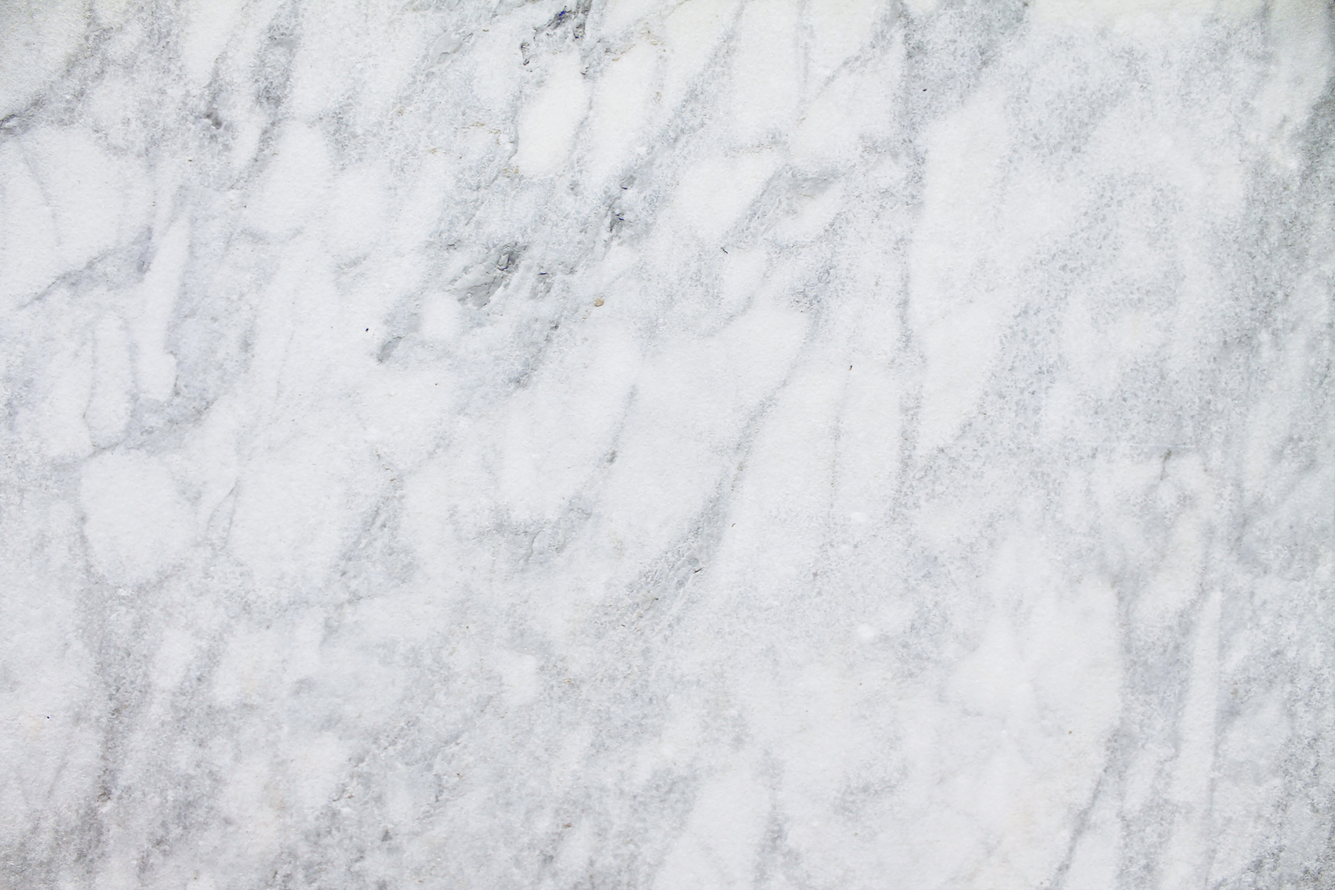
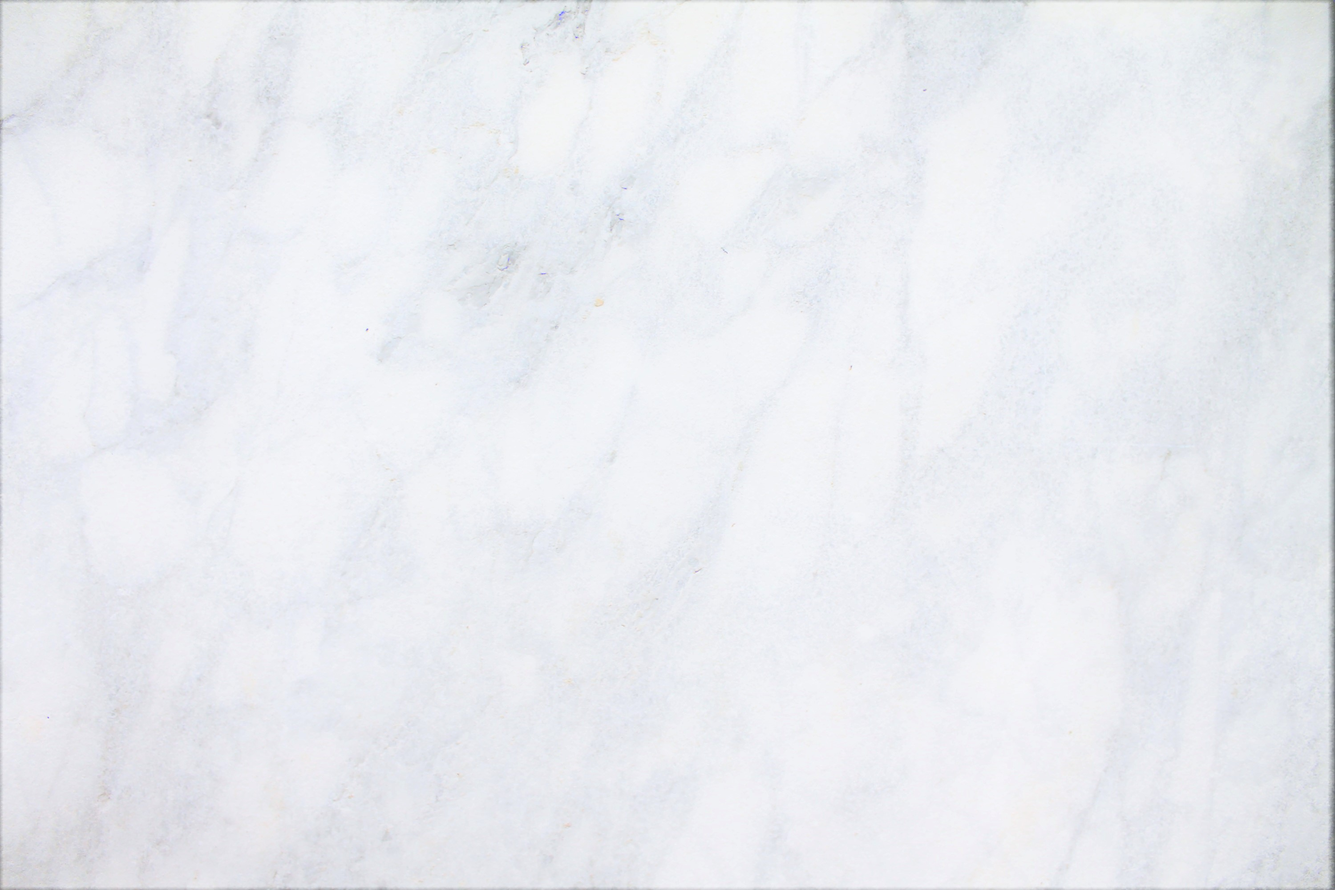
made the hover yellow background more transparent when hover over each project item and made about image brighter for better contract with text

diff --git a/index.html b/index.html
@@ -57,7 +57,7 @@
         <h1 class="masthead-heading text-uppercase mb-0">Inna Monjoseph</h1>
         </br>
         </br>
-        <p class="masthead-subheading font-weight-light mb-0">Front End Developer</p>
+        <p class="masthead-subheading font-weight-light mb-0">Front End Web Developer</p>
       </div>
       
     </div>
@@ -102,7 +102,7 @@
                 <i class="fas fa-plus fa-3x"></i>
               </div>
             </div>
-            <img class="img-fluid" src="img/portfolio/cake.png" alt="">
+            <img class="img-fluid" src="img/portfolio/robofriends.png" alt="">
           </div>
         </div>
 

diff --git a/style.css b/style.css
@@ -92,6 +92,10 @@ a {
     color: #fff;
     background: #e6b800;
   }
+
+  .portfolio .portfolio-item .portfolio-item-caption {
+    background-color: rgba(230, 184, 0, 0.8); 
+}
 /*      
 .btn-link {
     font-weight: 400;
